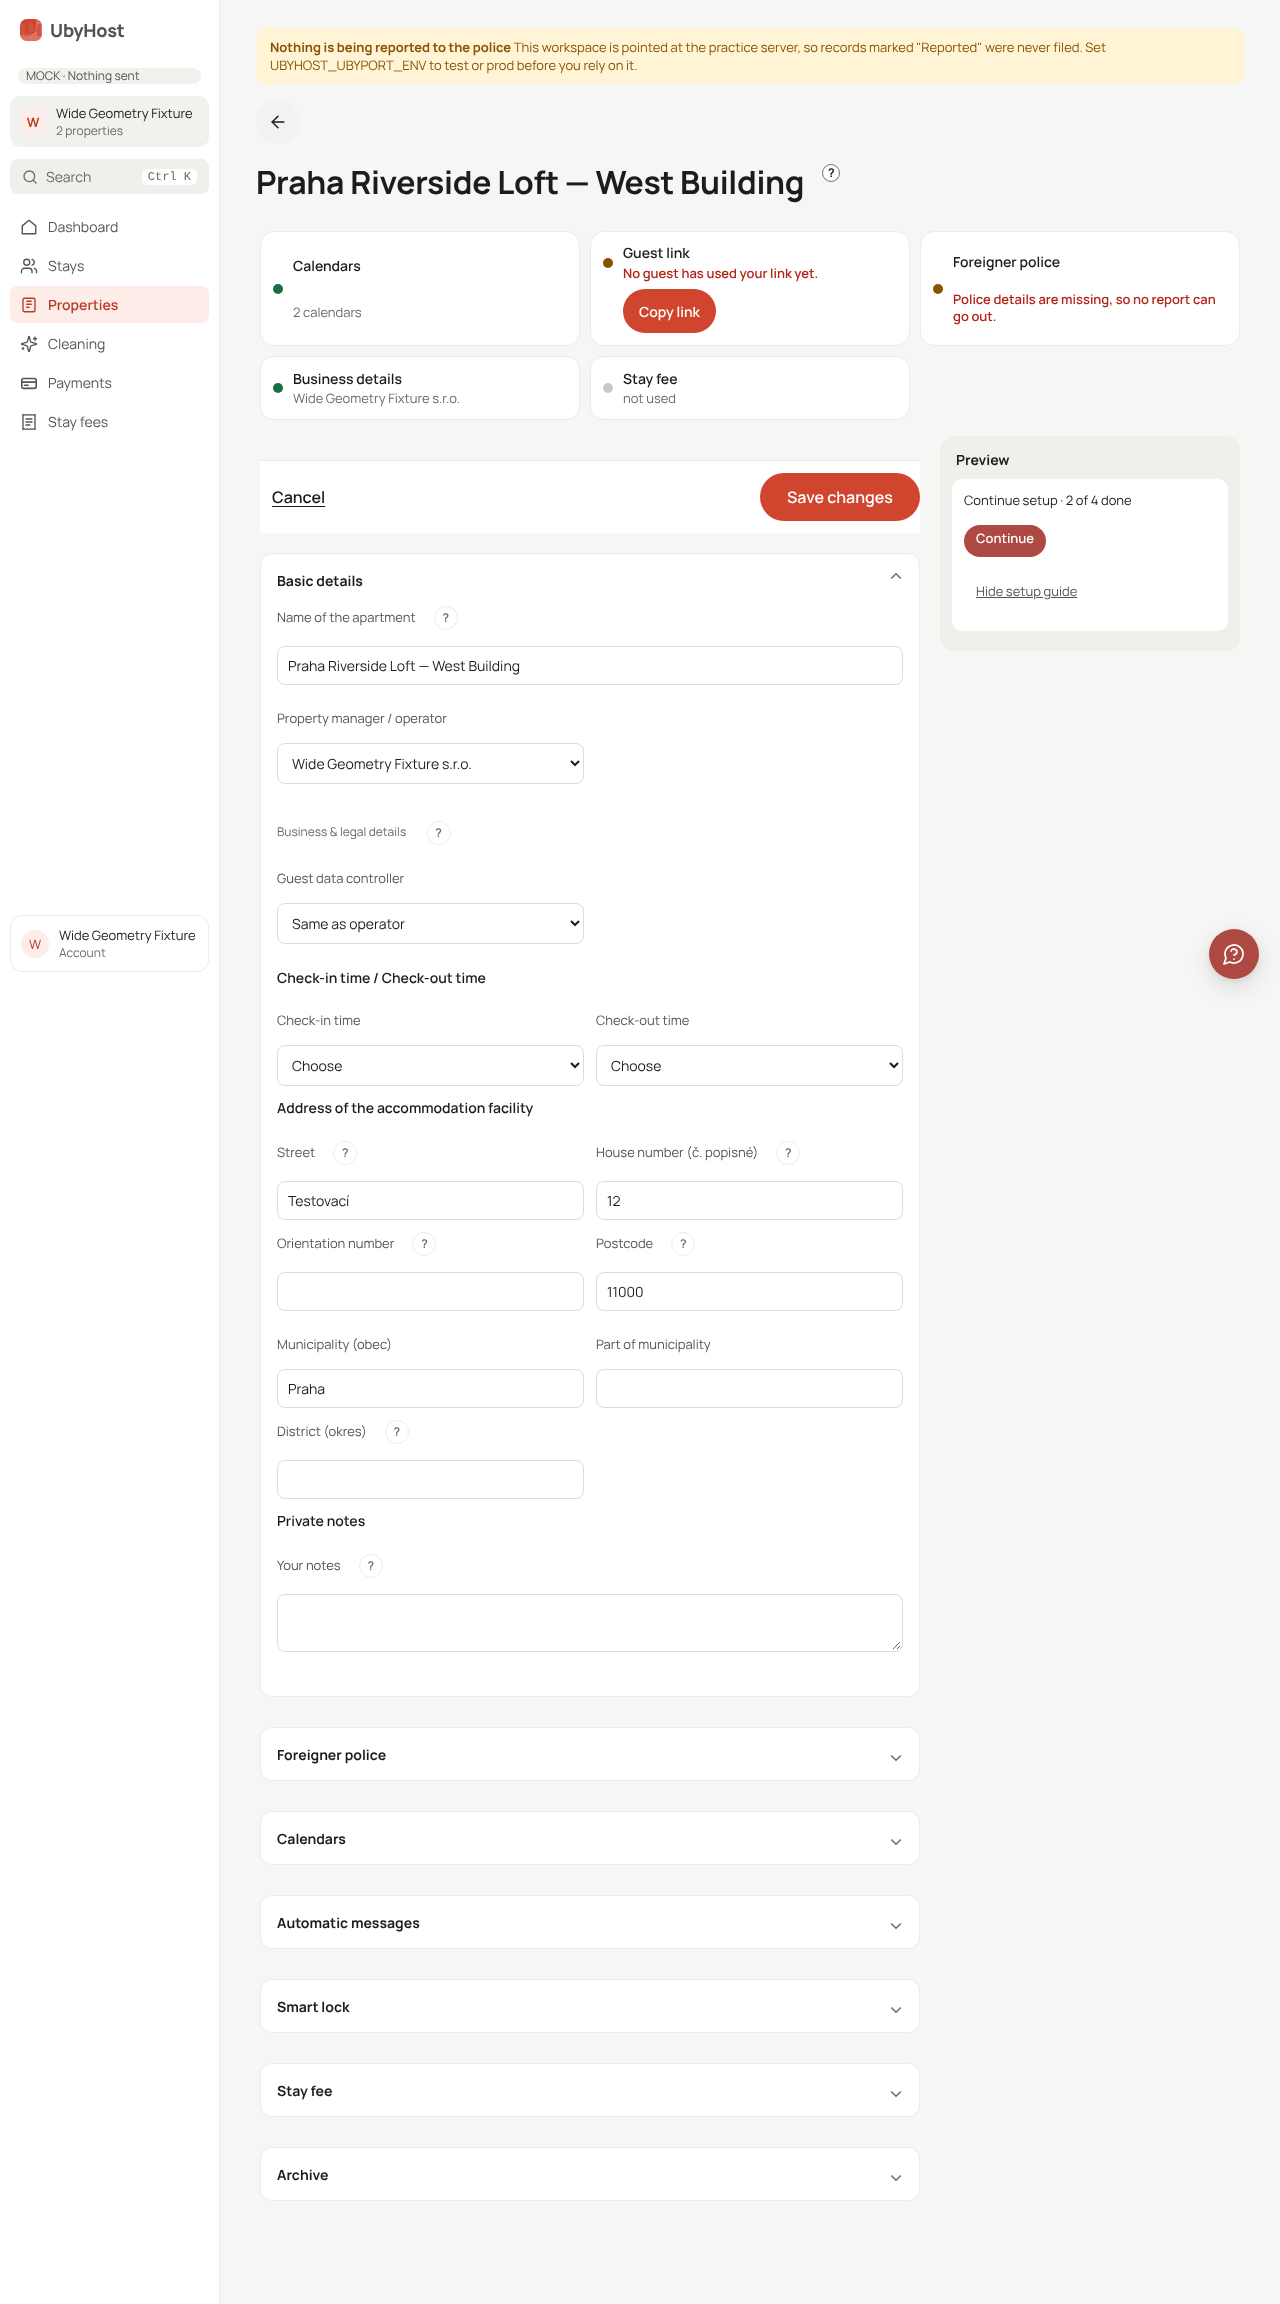
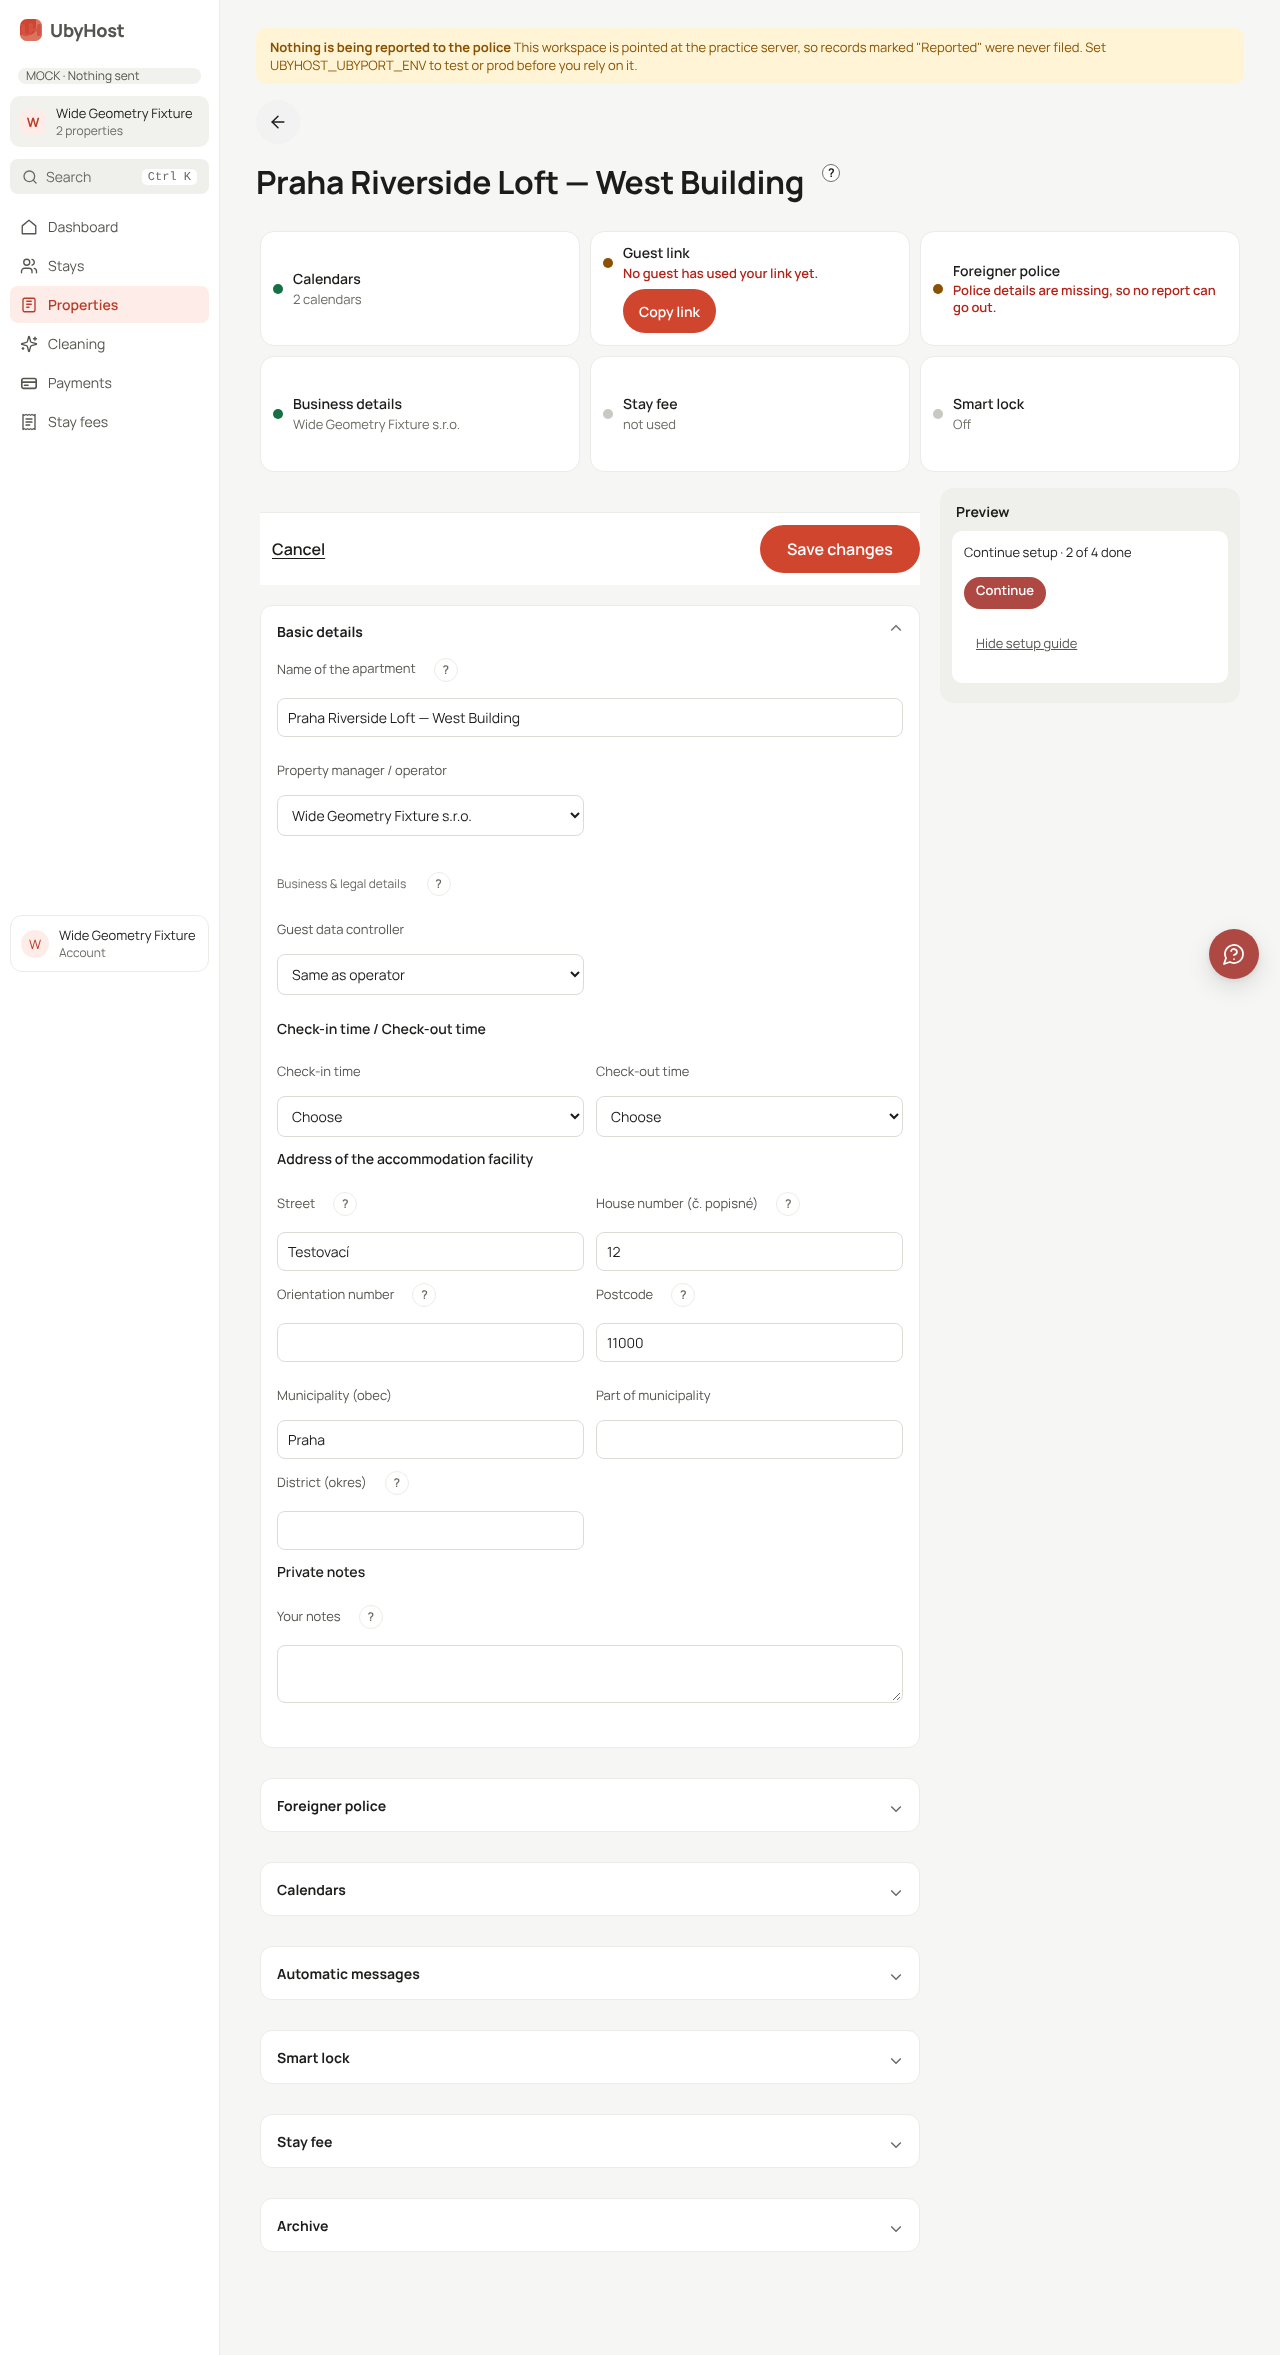
0948 step 8: equal-height strip cards, centered status, always six cards
Claude-Session: https://claude.ai/code/session_01Cjmb7QWLWsEcS87gQn8cYV

diff --git a/App/app/templates/_property_editor.html b/App/app/templates/_property_editor.html
@@ -54,9 +54,7 @@
   <a class="sc" href="#sec-police" data-strip="police" data-state="{{ p_state }}"><i class="sd" aria-hidden="true"></i><b>{{ t('property_page.sec.police.title') }}</b><small{% if p_bad %} class="is-problem"{% endif %}>{% if p_bad %}{{ t(hc['police'].text_key) if 'police' in hc else tp('property_nav.report_missing', report_missing) }}{% else %}{{ t('property_nav.report_ready') }}{% endif %}</small></a>
   <a class="sc" href="#sec-basics" data-strip="business" data-state="{{ b_state }}"><i class="sd" aria-hidden="true"></i><b>{{ t('health.business') }}</b><small{% if b_bad %} class="is-problem"{% endif %}>{% if not apartment.legal_entity_id %}{{ t('property_page.strip.operator_missing') }}{% elif b_bad %}{{ t(hc['business'].text_key) }}{% else %}{{ operator.name if operator else t('health.business.ok') }}{% endif %}</small></a>
   <a class="sc" href="#sec-fee" data-strip="fee" data-state="{{ 'ok' if apartment.stay_fee_rate_czk else 'off' }}"><i class="sd" aria-hidden="true"></i><b>{{ t('property_page.sec.fee.title') }}</b><small>{% if apartment.stay_fee_rate_czk %}{{ apartment.stay_fee_rate_czk }} Kč{% else %}{{ t('apartments.chip_state.off') }}{% endif %}</small></a>
-  {%- if door_code %}
-  <a class="sc" href="#sec-lock" data-strip="door" data-state="{{ 'ok' if door_code.enabled else 'off' }}"><i class="sd" aria-hidden="true"></i><b>{{ t('property_page.sec.lock.title') }}</b><small>{{ t('property_nav.switch_enabled') if door_code.enabled else t('property_nav.switch_off') }}</small></a>
-  {%- endif %}
+  <a class="sc" href="#sec-lock" data-strip="door" data-state="{{ 'ok' if door_code and door_code.enabled else 'off' }}"><i class="sd" aria-hidden="true"></i><b>{{ t('property_page.sec.lock.title') }}</b><small>{{ t('property_nav.switch_enabled') if door_code and door_code.enabled else t('property_nav.switch_off') }}</small></a>
 </nav>
 <div class="form">
 <div class="form-main">

diff --git a/App/app/static/app2.css b/App/app/static/app2.css
@@ -2446,8 +2446,8 @@ body.v2 .onboarding-finish-strip{display:flex;flex-wrap:wrap;gap:12px;align-item
 @media (max-width:1023px){body.v2 .onboarding-finish-strip a{white-space:nowrap;min-height:44px;display:inline-flex;align-items:center}}
 
 /* 0948 status strip */
-body.v2 .prop-strip{display:grid;grid-template-columns:repeat(2,minmax(0,1fr));gap:10px;margin:0 auto 16px;max-width:980px}
-body.v2 .prop-strip .sc{display:grid;grid-template-columns:10px minmax(0,1fr);column-gap:10px;row-gap:2px;align-items:center;min-height:64px;padding:12px;background:#fff;border:1px solid var(--line);border-radius:14px;color:inherit;text-decoration:none}
+body.v2 .prop-strip{display:grid;grid-template-columns:repeat(2,minmax(0,1fr));grid-auto-rows:1fr;gap:10px;margin:0 auto 16px;max-width:980px}
+body.v2 .prop-strip .sc{display:grid;grid-template-columns:10px minmax(0,1fr);column-gap:10px;row-gap:2px;align-items:center;align-content:center;min-height:64px;padding:12px;background:#fff;border:1px solid var(--line);border-radius:14px;color:inherit;text-decoration:none}
 body.v2 .prop-strip div.sc.sc-link{display:block;padding:12px}
 body.v2 .prop-strip .sc:hover{border-color:var(--ink3)}
 body.v2 .prop-strip .sc:focus-visible,body.v2 .prop-strip .sc-main:focus-visible{outline:2px solid var(--ink);outline-offset:2px}

diff --git a/App/app/templates/base.html b/App/app/templates/base.html
@@ -19,7 +19,7 @@
   <link rel="preload" href="/static/fonts/Manrope-latin.woff2?v=20261101-0495" as="font" type="font/woff2" crossorigin>
   {% if v2 | default(false) %}
   <link rel="stylesheet" data-turbo-track="reload" href="/static/tokens.css?v=20261103-0920">
-  <link rel="stylesheet" data-turbo-track="reload" href="/static/app2.css?v=20261104-0948c">
+  <link rel="stylesheet" data-turbo-track="reload" href="/static/app2.css?v=20261104-0948b">
   {% if show_nav | default(true) %}<link rel="stylesheet" data-turbo-track="reload" href="/static/command.css?v=20261103-0935">{% endif %}
   {% else %}
   <link rel="stylesheet" data-turbo-track="reload" href="/static/tokens.css?v=20261103-0920">

diff --git a/docs/tasks/0948-report.md b/docs/tasks/0948-report.md
@@ -1,6 +1,6 @@
 # 0948 report: property page status strip
 
-Status: review (partial: copy-settings button and lint pass; one visual finding open, see Deviations)
+Status: review (polish step 8 applied: equal heights, centered status line, always six cards)
 
 ## Files changed
 - App/app/templates/_property_editor.html, apartment_form.html, _property_create.html, partials/settings_back_header.html (strip, guest card removed, aside cleanup, copy button to header)
@@ -21,10 +21,11 @@ Status: review (partial: copy-settings button and lint pass; one visual finding 
 - 1280: strip 3 columns over the form and Preview; edges match. Copy-settings button not shown: hidden once setup is finished (by design of 0424).
 
 ## Deviations / open
-- Calendars (and other one-line) cards: the status line sits far below the title at 390. Likely cause: `.sc` grid stretches rows to min-height 64px. Fix candidate: `align-content:center` on `body.v2 .prop-strip .sc`. Not applied yet.
+- Step 8 (owner review of 1280 screenshot): `.sc` now uses `align-content:center`, so one-line cards center their title and status; `.prop-strip` uses `grid-auto-rows:1fr`, so all cards share one height. The Guest link card (Copy link button) sets the row height, so at 390 all rows are about 120 px tall.
+- Door code card is always rendered (six cards): `data-state="off"` with the existing "Off" text when no door code or disabled; links to `#sec-lock`. Layout: 2 columns at 390, 3 columns at 768 and 1280, no odd empty slot.
 - Strip below 360 px is one column (layout lint word-per-line failure at 320 px). Brief acceptance says 2 columns below 640; this is a narrow-phone exception.
 - Screenshots were taken from the lint run (route property-detail, EN), not `?lang=cs`.
-- Design-system checklist not ticked; owner-facing copy check not done.
+- Design-system checklist not ticked in step 8 (checklist file not opened in this step); owner-facing copy check not done.
 - Manifest and workflow.css key were fixed in a9e8a861 (not this task's scope).
 
 ## Commits
